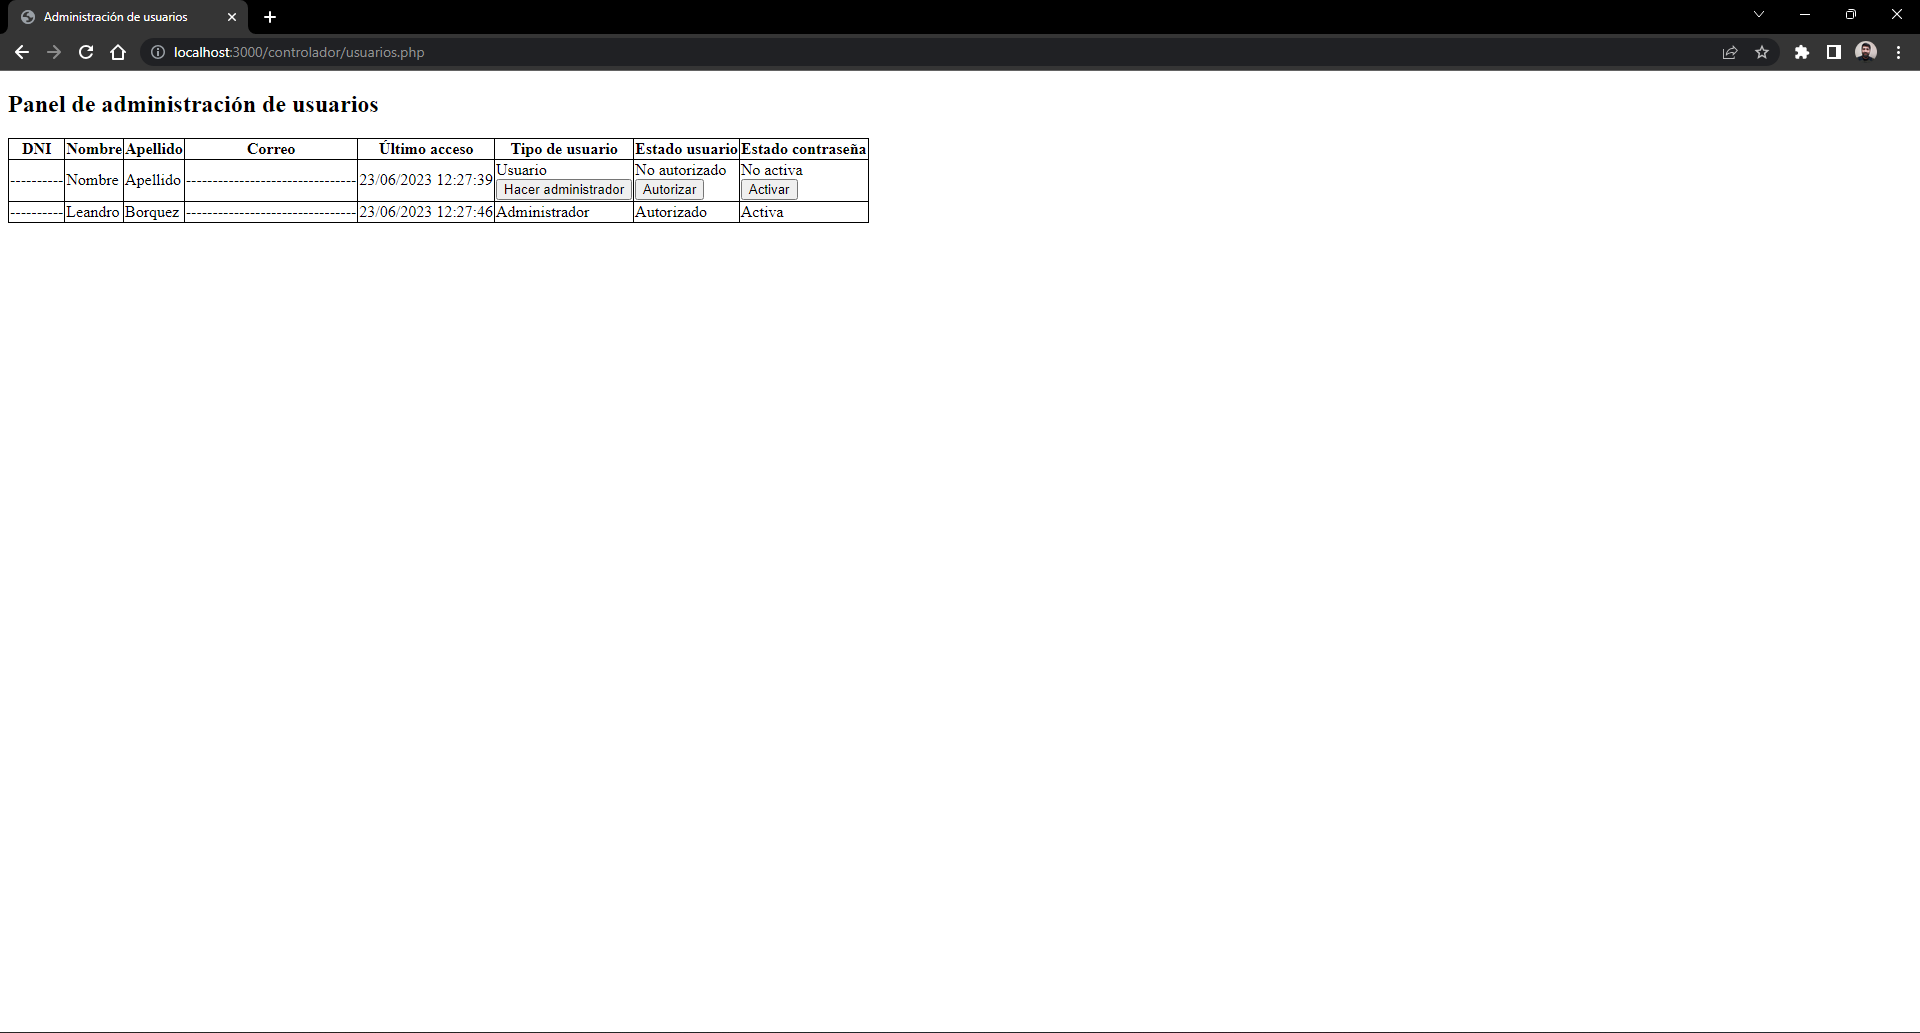
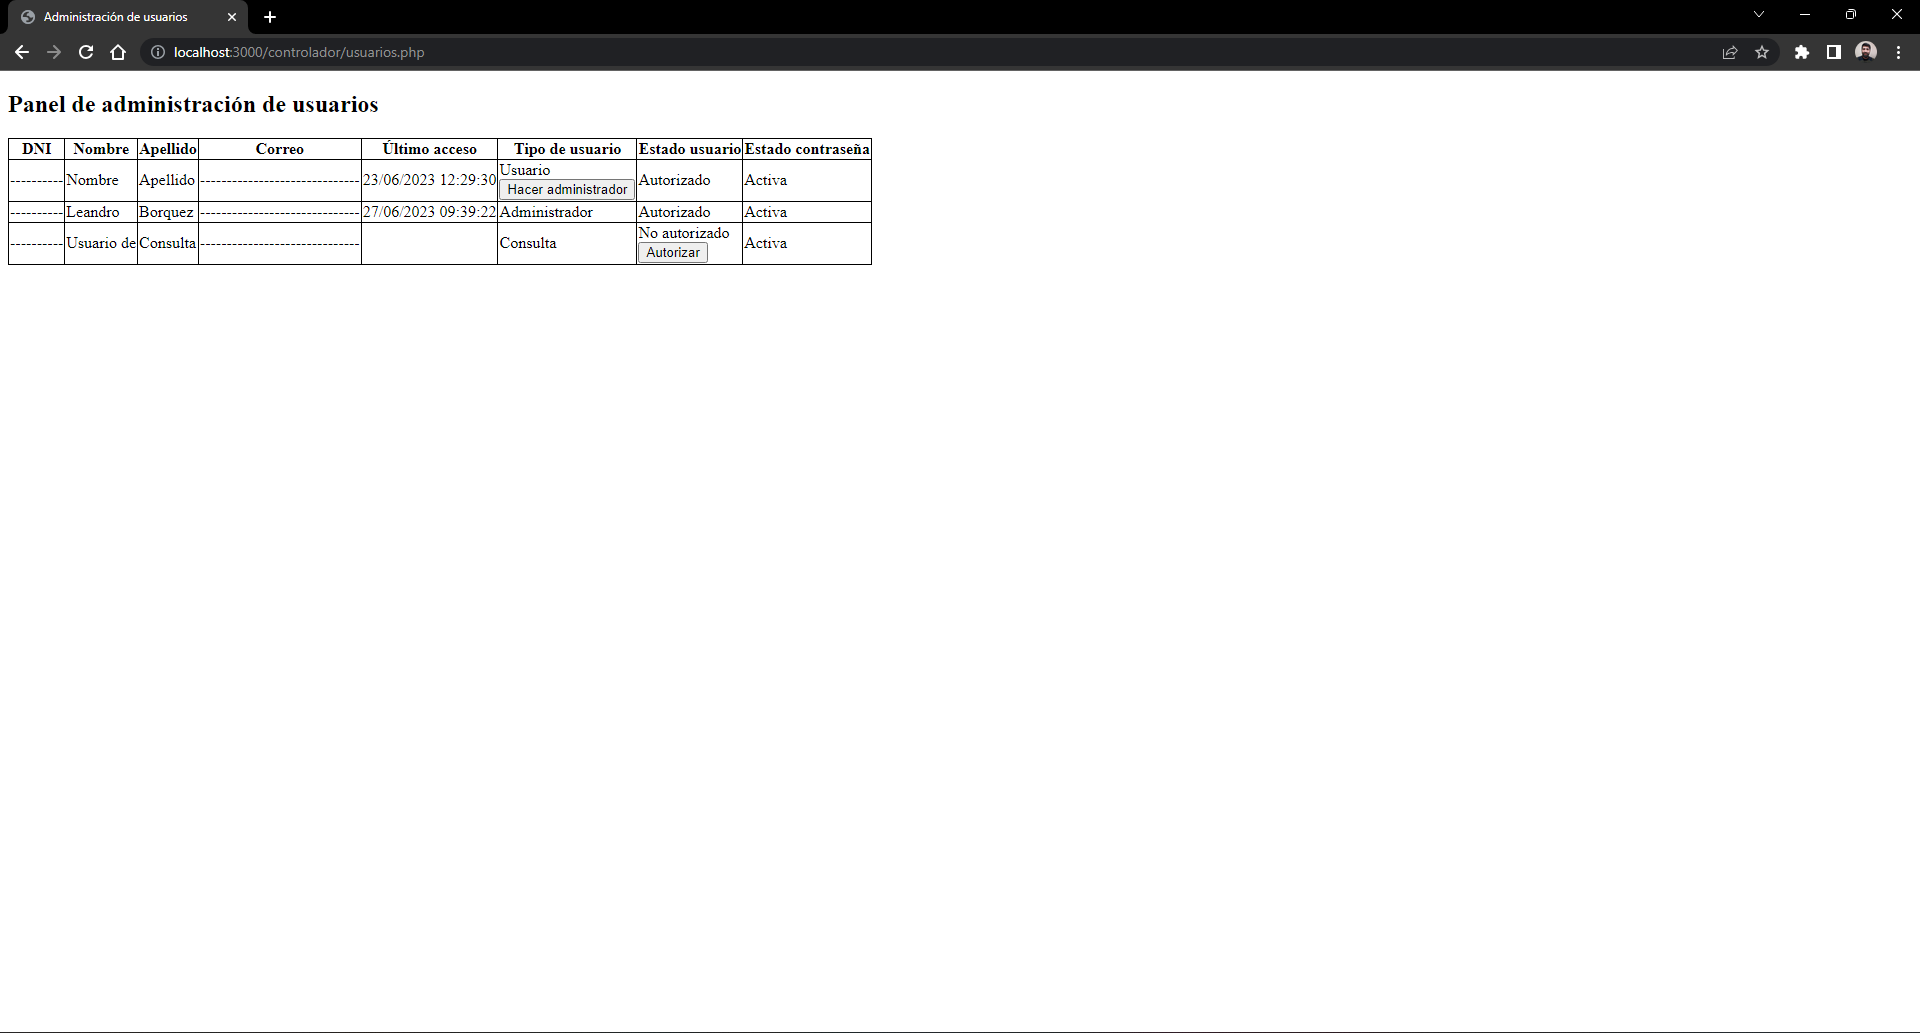
feat: new user type (v1.1.5) * Created a new type of user with permission to consult maps

Changed region(s): [[0.1875, 0.1239, 0.4688, 0.2478], [0.0312, 0.1239, 0.0938, 0.2478], [0.125, 0.1239, 0.1562, 0.1549]]

diff --git a/vista/inicio.php b/vista/inicio.php
@@ -29,19 +29,23 @@
         <?php
             unset($_SESSION["creadoErr"]);
         }
+
+        if ($_SESSION["tipoUsuario"] != 3) {
         ?>
+            <h3><a href="../controlador/crear-cartel.php">Crear cartel</a></h3>
 
-        <h3><a href="../controlador/crear-cartel.php">Crear cartel</a></h3>
-
-        <h3><a href="../controlador/crear-puesto.php">Crear puesto</a></h3>
-
-        <?php
-        if ($_SESSION["tipoUsuario"] == 1) {
-        ?>
-            <h3><a href="../controlador/usuarios.php">Administración de usuarios</a></h3>
-
+            <h3><a href="../controlador/crear-local.php">Crear punto fijo</a></h3>
+            <?php
+            if ($_SESSION["tipoUsuario"] == 1) {
+            ?>
+                <h3><a href="../controlador/usuarios.php">Administración de usuarios</a></h3>
+            <?php
+            }
+        }
+        if ($_SESSION["tipoUsuario"] != 2) {
+            ?>
             <form method="post" action="../controlador/mapa.php">
-                <h3>Elegir tipo de mapa</h3>
+                <h3>Elija el mapa que desea ver:</h3>
                 <select name="categoria" required>
                     <option value="" selected>Seleccione...</option>
                     <?php

diff --git a/controlador/mapa.php b/controlador/mapa.php
@@ -5,7 +5,7 @@ if (time() - $_SESSION["time"] < 600) {
     require "../modelo/Consultas.php";
     $co = new Consultas;
 
-    if ($_SESSION["tipoUsuario"] == 1) {
+    if ($_SESSION["tipoUsuario"] != 2) {
         $categoria = $_POST["categoria"];
         $marcadores = $co->listarMarcadores($categoria);
         require "../vista/mapa.php";

diff --git a/README.md b/README.md
@@ -1,24 +1,32 @@
 # Marcadores (ES)
 Este sistema ha sido diseñado para crear marcadores en una base de datos que luego serán mostrados sobre un mapa centrado en un punto en particular.
 
-Los usuarios del sistema pueden crear dos tipos de marcadores distintos desde formularios que impactan en tablas distintas de la base de datos. El formulario solicita al usuario la dirección, solicita la ubicación del navegador y permite subir una foto del marcador para ser guardada en el sistema.
+El sistema cuenta con tres tipos de usuarios: Usuarios comunes, Usuarios de consulta y Administradores.
+
+Desde el panel de inicio se pueden crear dos tipos de marcadores distintos desde formularios que impactan en tablas distintas de la base de datos. El formulario solicita al usuario la dirección, solicita la ubicación del navegador y permite subir una foto del marcador para ser guardada en el sistema.
 
 Por su parte, el mapa puede mostrar tres tipos de marcadores, siendo posible crear el tercero de ellos únicamente desde la base de datos. La categoría a mostrar se elige desde el panel de usuario después de iniciar sesión. 
 
-Además hay también una página para la administración de usuarios que permite activar cuentas recientemente registradas, resetear contraseñas y transformar usuarios comunes en administradores. El mapa y la administración de usuarios se encuentran visible solamente para administradores.
+Además hay también una página para la administración de usuarios que permite activar cuentas recientemente registradas, resetear contraseñas y transformar usuarios comunes en administradores.
 
-Además del formulario de inicio de sesión, el sistema cuenta con un formulario de registro, un formulario para solicitar el reinicio de la contraseña y un cierre de sesión por inactividad.
+Los usuarios comunes tienen acceso solamente a los formularios, los usuarios de consulta tienen acceso solamente al mapa y los administradores pueden acceder a todas las áreas.
+
+El sistema cuenta con un formulario de registro, un formulario para solicitar el reinicio de la contraseña y un cierre de sesión por inactividad.
 
 # Markers (EN)
 This app has been developed to create markers in a database that will then be displayed on a map centered on a particular point.
 
-Users can create two different types of markers from forms that impact different tables in the database. The form asks the user for the address, requests the location of the browser and allows uploading a photo of the marker to be saved in the system.
+The system has three types of users: Regular users, Consultation users and Administrators.
+
+From the dashboard it can create two different types of markers from forms that impact different tables in the database. The form asks the user for the address, requests the location of the browser and allows uploading a photo of the marker to be saved in the system.
 
 For its part, the map can show three types of markers, and it is possible to create the third one only from the database. The category to display is chosen from the user panel after logging in.
 
 Also, there is also a page for user management that allows to activate newly accounts, reset passwords and turn a regular user into an admin.
 
-In addition to the login form, the system has a registration form, a password reset request form, and a logout for inactivity.
+Regular users have access only to the forms, Consultation users have access only to the map, and Admins can access all areas.
+
+The system has a registration form, a password reset request form, and a logout for inactivity.
 
 # Tecnologías / Tech:
 * <b>Front-end:</b> HTML
